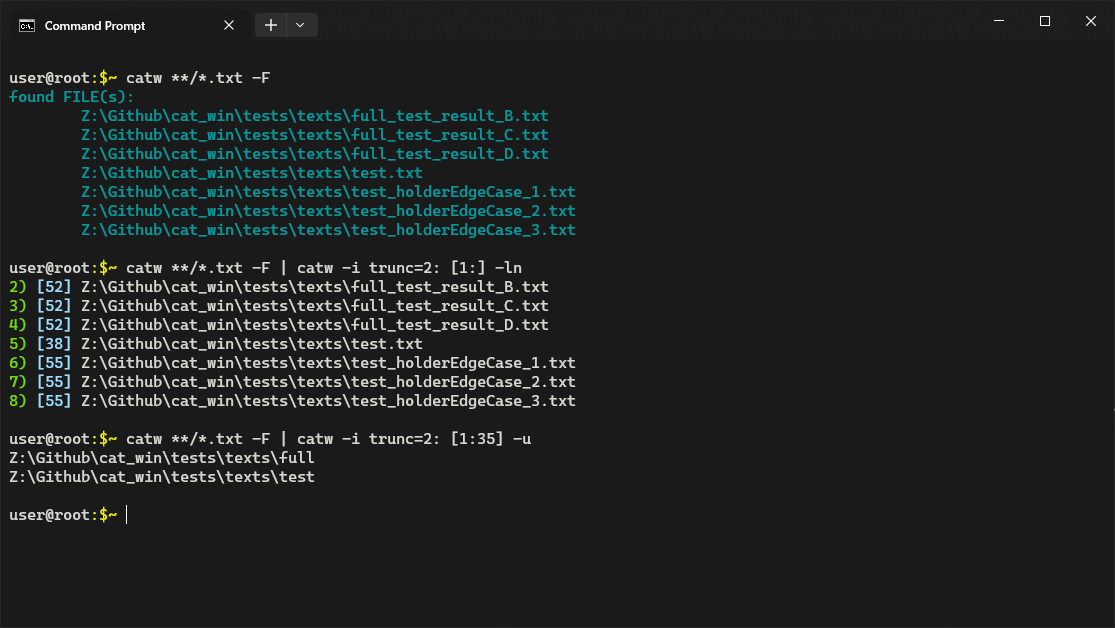
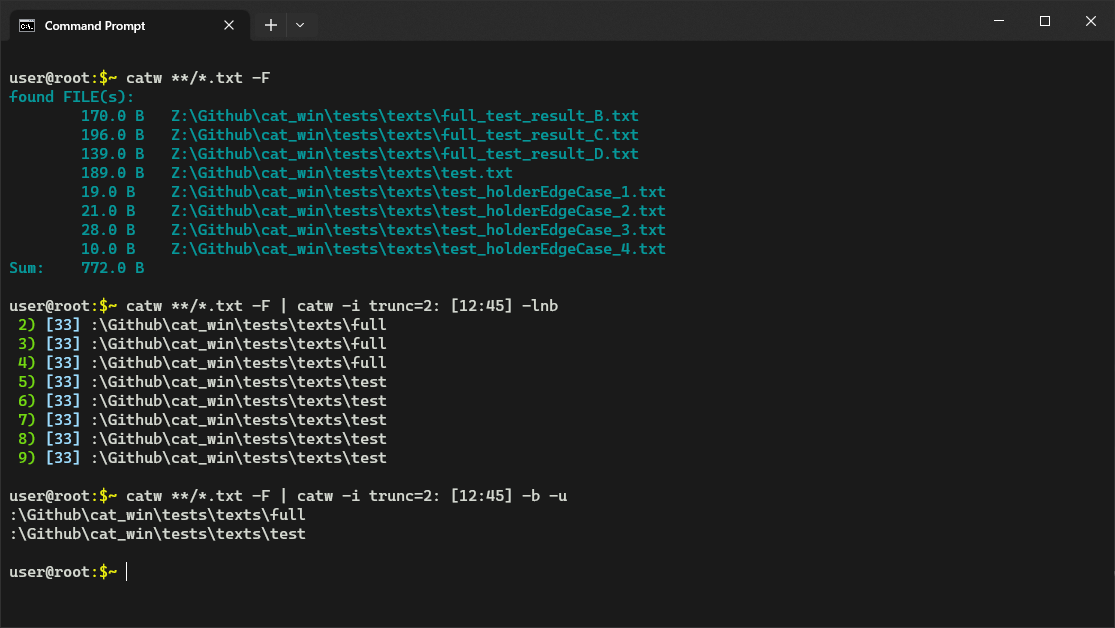
updated example image

Changed region(s): [[0.0, 0.1513, 0.6099, 0.8774], [0.0, 0.9076, 0.122, 0.9379]]

diff --git a/cat_win/__init__.py b/cat_win/__init__.py
@@ -1,6 +1,6 @@
 """Simple OS Independent 'cat' Command-line Tool made in Python."""
 
-__version__ = '1.1.2'
+__version__ = '1.1.3'
 __sysversion__ = '3.11.2 (main, Feb  7 2023, 16:38:35) [MSC v.1934 64 bit (AMD64)]'
 __author__ = 'Silas A. Kraume'
 __url__ = 'https://github.com/SilenZcience/cat_win'
